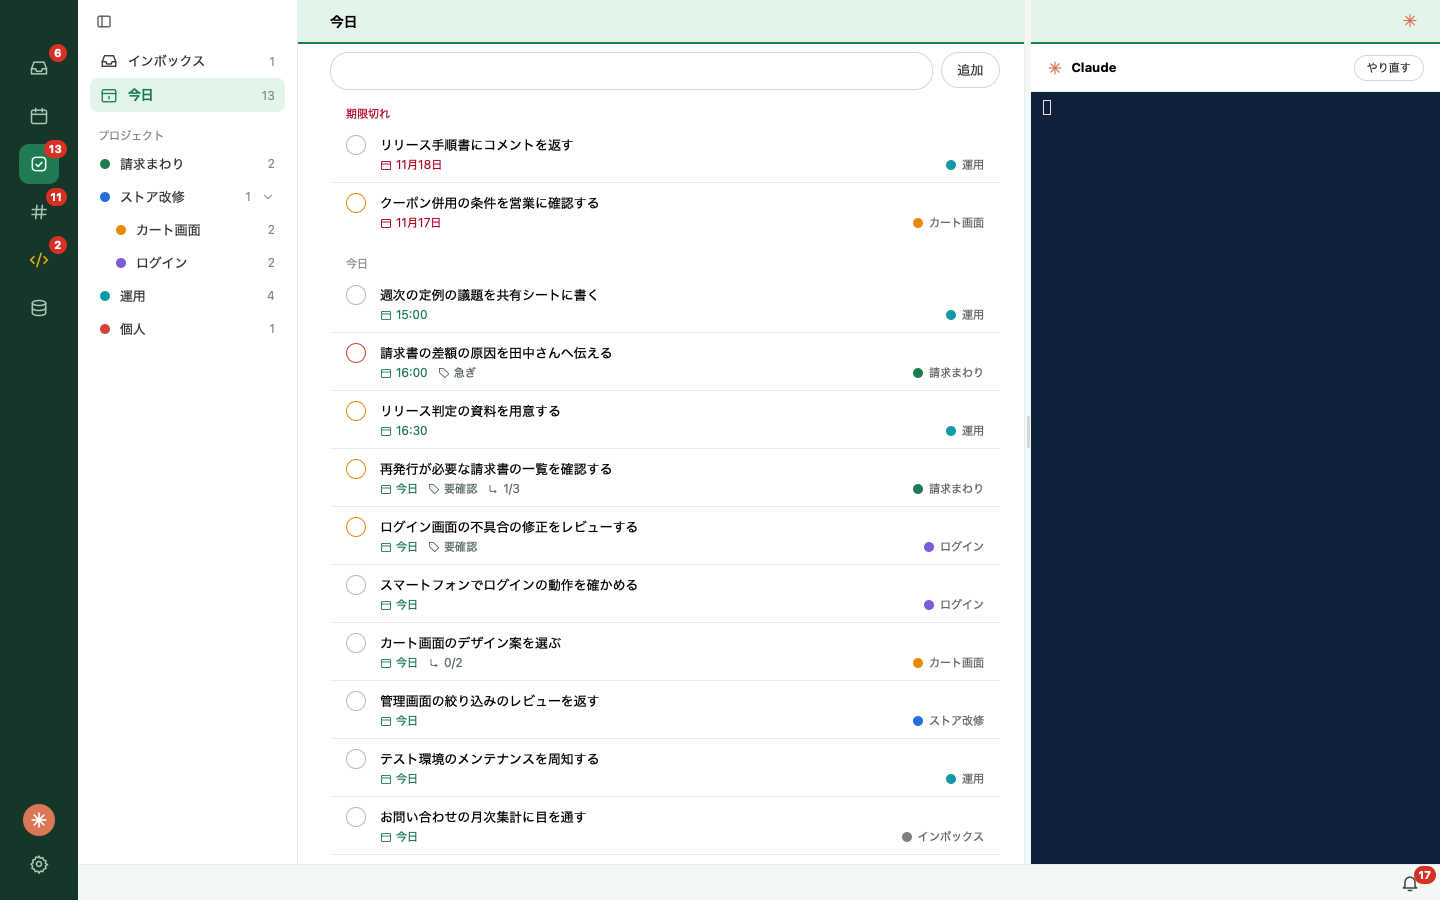
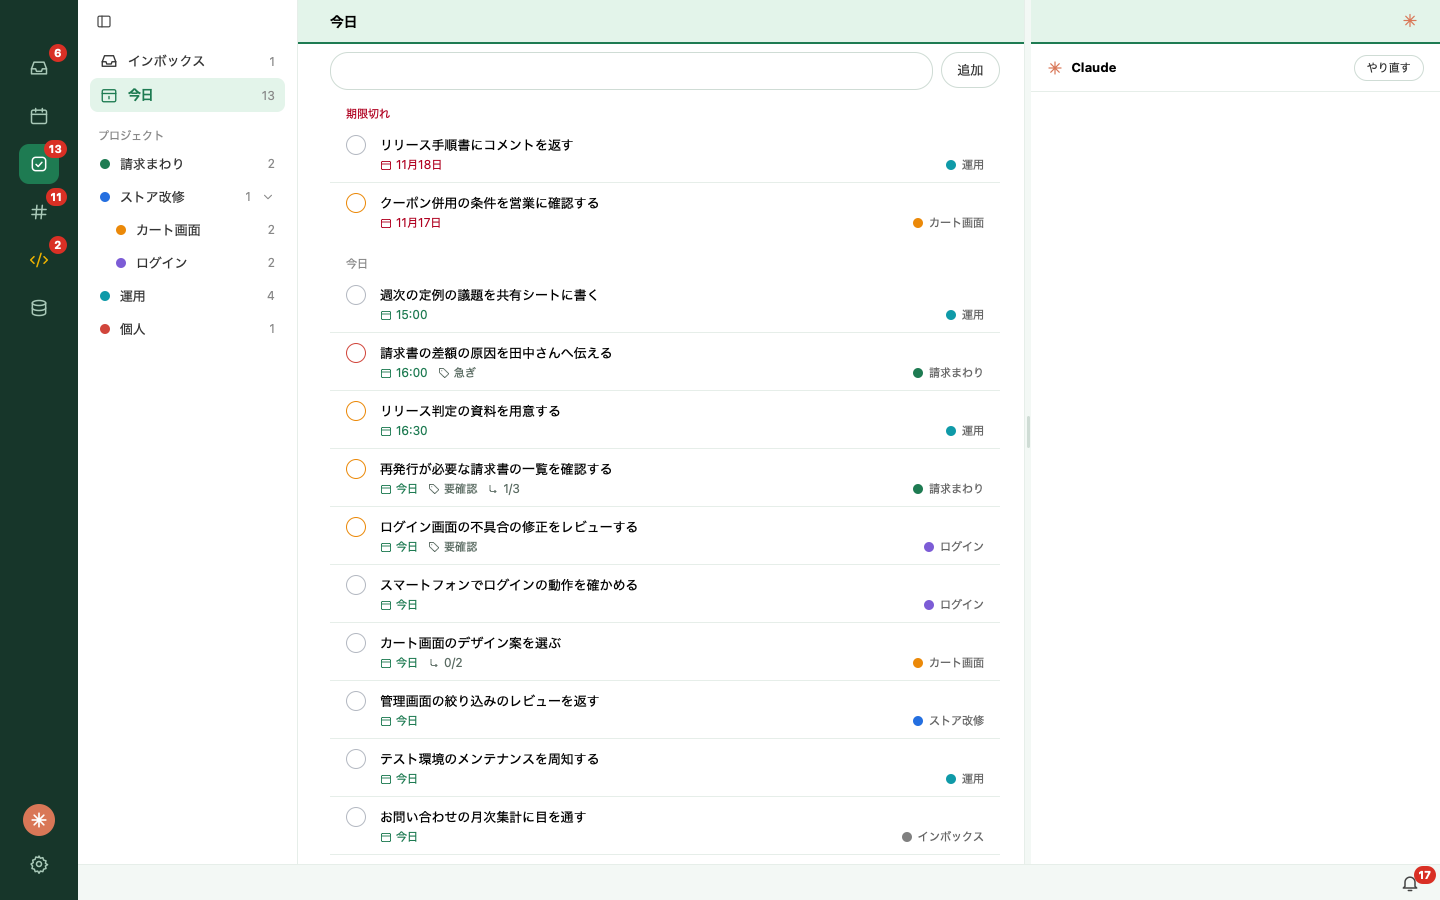
docs: v0.88.2 の CHANGELOG と docs を書く
This commit is v0.88.2.

Changed region(s): [[0.7188, 0.0933, 1.0, 0.9644]]

diff --git a/docs/features.md b/docs/features.md
@@ -23,7 +23,7 @@ title: 機能
 - カレンダーの予定を押すと、その横に詳細を出す（日時、Meet に参加するボタンと URL のコピー、場所、説明、参加者の人数と承諾した人数、カレンダー名とアカウント、自分の回答）。詳細は週の取得と一緒に取り、押したときの通信はない。別の予定を押すと切り替わり、同じ予定をもう一度押すか、✕・Escape・外側のクリックで閉じる
 - Todoist のタスクを、プロジェクト別（Todoist と同じ親子関係でネストする）と「今日」の一覧で表示し、完了・追加・編集（説明とサブタスクを含む）する。説明は Markdown で表示し、10 行を超える説明は 10 行目で折りたたんで「… 続きを表示（残り n 行）」で全文を出し、押すと編集して「保存」で登録する。「今日」で追加した、日付の無いタスクは期限が今日になる。期限は月のカレンダーから選べる（今日は緑の輪で囲む）。一覧の行は 3 段で、タスク名、説明の 1 行目（URL は下線）、期限・ラベル・サブタスクの数（「今日」の一覧では右端にプロジェクト）の順に出す。サブタスクは一覧の行の左のトグルで開閉する。詳細画面の右にプロジェクトと日付を出し、日付はマウスを乗せると出る × で消せる。サブタスクの詳細には、名前の上に直接の親タスクを出し、↩ の「親タスク」で親を開く（左の丸いチェックで、親タスクを完了にできる）。親に説明があれば、親の名前の下にその説明をいつも出す（3 行目で切って「…」を付ける。文字は選んでコピーできる）。詳細画面の右の「ラベル」には、タスクのラベルを色の点と名前で並べ、× で外せる。＋で出る欄で、ラベルを絞り込んでタスクに付け外しし、無い名前は新しく作って付けられる。詳細画面の右上の「編集」メニューから、タスクのリンクや説明（Markdown のまま）をコピーしたり、タスクを削除したりできる（削除は二度押す）。説明は、文字を選んでコピーでき（選んでも編集は始まらない）、マウスを乗せると右上に出るコピーのアイコンでもコピーできる。一覧の行にマウスを乗せると、詳細を開かずに名前・期限・プロジェクトを変えられ、行の左端をドラッグして、左のプロジェクトへ移したり、別のタスクの行に落としてそのタスクのサブタスクにしたりすることもできる（落とせる行は枠で示す。自分自身、自分のサブタスク、今の親には落とせない）。サブタスクは、行にマウスを乗せると出る「親タスクから外す」ボタンか、今いるプロジェクトへのドラッグで、親から外して単独のタスクに戻せる。詳細画面のサブタスクの行（未完了のもの）も、一覧の行と同じく、マウスを乗せると出るボタンとドラッグで、別のプロジェクトへ移す、親から外す、詳細のほかのサブタスクの下へ入れる、ができる。詳細画面の下には、タスクのコメント（投稿者、日時、Markdown の本文、添付ファイル）を一覧し、コメントの追加と、ファイル 1 つ（100 MB まで）の添付ができる（⌘Enter か送信ボタンで送り、Enter は改行になる）。受信トレイのスレッドから「Todo にする」でタスクを作る。Todoist に接続できないときは、前回取得した内容を表示する（Todoist の個人 API トークンを使う。サイドメニューの Todo のアイコンで開き、期限（日付と時刻。時刻の無い日付は 0 時）が来た未完了の件数をそのアイコンに表示する。期限の無いタスクは数えない。接続の状態の確認と解除は、設定の「Todoist」タブで行う。一覧の見出しの ✳ のアイコンから、要約プロンプトの画面を開ける）
 - Todo 画面の左のプロジェクトを右クリックすると、「移動」「アーカイブ」「削除」のメニューが出る（「インボックス」と「今日」には出ない）。「アーカイブ」はすぐにアーカイブする（タスクは Todoist に残る）。「削除」は確認のあとで、プロジェクトをセクションとタスクごと完全に消す（Todoist でも元に戻せない）。「移動」では「一番上の階層」と移せるプロジェクトが並び、選んだプロジェクトの最後のサブプロジェクト（「一番上の階層」なら一番上の最後）になる。プロジェクトの行をドラッグして別のプロジェクトに落としても、そのサブプロジェクトになり、見出し「プロジェクト」に落とすと一番上の階層に移る（自分自身、自分の下のプロジェクト、今の親には落とせない）。どれも、サブプロジェクトも一緒に動く。開いているプロジェクトをアーカイブするか消すと、一覧は「今日」に戻る
-- Todo 画面の右側は、トークンの入力欄と下書きのページのあいだを除いて、いつも開いていて、2 段になっている。1 段目は、左の見出しと同じ淡い色の帯で、右端に Claude のアイコンだけがあり、押すと頼みを書く欄に移る。2 段目は Claude の見出しと操作で、その下が中身になる。右側は Claude のペインだけで、幅は仕切りで画面の 30% から 45% まで変えられる（最初はいちばん狭い画面の 30%）。左の見出しには、Todo そのものの操作（一覧のボタン、戻るボタン、見出し、タスクを開いているあいだの「Orca に渡す」、「編集」）が残る。Claude のペインは、見出しの「Claude」と「やり直す」の下に、Claude Code のターミナルを出す（「やり直す」で Claude Code を終えて新しく始める）。Claude Code は、`tsunagiai-mcp` で Todoist のプロジェクトとタスクを読み（聞かずに読む）、タスクを足す（足すたびに、ターミナルで聞かれる）。足したタスクは Todo の一覧に出る。Claude Code に渡すのは `tsunagiai-mcp` だけで、組み込みの道具とスキルは渡さない。ペインの案のカードと、頼みを書く欄とモデルと effort の選択欄、「クリア」は無い。Claude Code を使えるときだけ
+- Todo 画面の右側は、トークンの入力欄と下書きのページのあいだを除いて、いつも開いていて、2 段になっている。1 段目は、左の見出しと同じ淡い色の帯で、右端に Claude のアイコンだけがあり、押すと Claude Code のターミナルに移る（起動していなければ起動する）。2 段目は Claude の見出しと操作で、その下が中身になる。右側は Claude のペインだけで、幅は仕切りで画面の 30% から 45% まで変えられる（最初はいちばん狭い画面の 30%）。左の見出しには、Todo そのものの操作（一覧のボタン、戻るボタン、見出し、タスクを開いているあいだの「Orca に渡す」、「編集」）が残る。Claude のペインは、見出しの「Claude」と「やり直す」の下に、Claude Code のターミナルを出す（Todo 画面を開いただけでは起動せず、ペインを押すか、Claude のアイコンか「やり直す」を押したときに起動する。「やり直す」で Claude Code を終えて新しく始める）。Claude Code は、`tsunagiai-mcp` で Todoist のプロジェクトとタスクを読み（聞かずに読む）、タスクを足す（足すたびに、ターミナルで聞かれる）。足したタスクは Todo の一覧に出る。Claude Code に渡すのは `tsunagiai-mcp` だけで、組み込みの道具とスキルは渡さない。ペインの案のカードと、頼みを書く欄とモデルと effort の選択欄、「クリア」は無い。Claude Code を使えるときだけ
 - メールを Slack に貼る（詳細画面の「Slack に貼る」で専用の画面が開く。ヘッダーの右の「Claude / 手動」で 2 つのモードを切り替える（開くたびに Claude モードで、下書きは切り替えても残る。Claude モードは、左に Claude Code のターミナルを出し、右に下に書く元のメッセージと行うこと、「投稿」を出す。手動モードは、ターミナルを隠して、同じ部分を全幅で出す）。手動モードの上は「元のメッセージ」で、スレッドの最新のメッセージの件名・差出人・日時・本文が入り、押すと編集欄になって直せる。「元の内容に戻す」で最初の文に戻せる。その下は「行うこと」で、どこに何を投稿するかのカードが番号つきで並ぶ。カードの貼り付け先は、最近使った先、参加しているチャンネルの検索、Slack のリンクから選ぶ（Claude に選ばせることもできる）か、前の番号の投稿のスレッドにする。投稿するのは、カードに書いた文面か、元のメッセージ。「＋」で行うことを足せ（未投稿は 10 件まで）、2 件目からは消せる。下の「投稿」（複数あるときは「N 件を投稿」）で上から順に投稿し（2 件以上を投稿するときは、2 件目からの各件を、前の件のスレッドに投稿するか、自分の貼り先に投稿するかを、ダイアログで選ぶ。「やめる」なら何も投稿しない）、スレッドに続ける 1 件は前の投稿への返信になる。途中で失敗するとそこで止まり、送れた分は「投稿済み」になって二度と送られない。投稿しても画面は閉じず、続きを足せる。カードに書いた `@here`、`@channel`、`@everyone` は、投稿のとき一斉メンションになる。複数のワークスペースを持て、トークンはサイドメニューの設定で追加する）
 - サイドメニューは、開いている画面に合わせて、その機能のアカウントを、アイコンの下に並べる（メールとカレンダーでは Google のアカウントをカレンダーのアイコンの下に、Slack ではワークスペースを Slack のアイコンの下に出す。Todo と設定では出さない。ワークスペースの絵は、そのワークスペースでの自分のアイコン）
 - サイドメニューの Slack のアイコンで Slack の画面を開く。画面の左のサイドメニューに、「未読メッセージ」（未読の件数つき）と「ウォッチ」の 2 つのボタンと、ワークスペースごとのチャンネル（参加しているパブリックとプライベート。名前順で、未読の件数つき。DM とグループ DM は出さない）が並び、ワークスペースの名前を押すと、未読の無いチャンネルを隠して畳める（畳んだ状態はアプリを開き直しても残る）。境目をドラッグして幅を変えられる。ボタンで、全ワークスペース分のメッセージの「未読」と「ウォッチ」の一覧を 1 つずつ切り替える（送信者のアイコンと名前、本文（省略せずに全部。ボットの投稿は項目ごとに書式つきで）、返信の件数と、返信した人のアイコン（5 人まで）と最終返信の時刻を出す。新着は自動で読み直す。設定の「Slack」タブの「リアルタイム更新」でワークスペースごとに App-Level Token を登録すると、Socket Mode でつなぎ、投稿・返信・変更・削除を約 1 秒で一覧と未読の件数に出す）。「未読」は、チャンネルごとにまとめ、チャンネルごとに新しい 10 件までを、古い順に日付の区切りの下に、名前の横に時刻をつけて出す（全体の上限はない）。「ウォッチ」は新しい順で、行に日時を出す。未読のメッセージは、既読になると一覧から消える。一覧の上のヘッダーには「Slack」の見出しと、「一覧に出さないチャンネル」を開く設定のアイコンだけが付く。未読の件数は Slack のアイコンにも出す（20 件を超えると `20+`。0 件のときは消える）。サイドメニューのチャンネルにマウスを乗せると出る丸にマイナスのアイコンで、そのチャンネルを一覧に出さないようにでき、設定の「Slack」タブで戻せる。しおりで、そのスレッドをウォッチでき、ウォッチしたスレッドは外すまで「ウォッチ」に残り、新しい返信があると「新しい返信 N 件」を出す

diff --git a/CHANGELOG.md b/CHANGELOG.md
@@ -3,6 +3,10 @@
 The newest version comes first.
 The project was named cookup until v0.14.6, and cookapps until v0.80.0.
 
+## v0.88.2
+
+T-7: Todo 画面を開いただけで、右の Claude のペインの Claude Code が起動し、頼んでいないのに返事をしていたのを直した（#1052）。ペインを押すか、右端の Claude のアイコンか「やり直す」を押したときに初めて起動する。
+
 ## v0.88.1
 
 T-7: Todo 画面の右の Claude のペインを、Claude Code の端末にした（#732）。見出しは「Claude」と「やり直す」だけで、提案のカード、モデルの選択、「クリア」はなくした。Claude Code は Todoist のプロジェクトとタスクを読み、タスクを足すときは毎回端末で許可を求める。足したタスクはすぐ一覧に出る。
